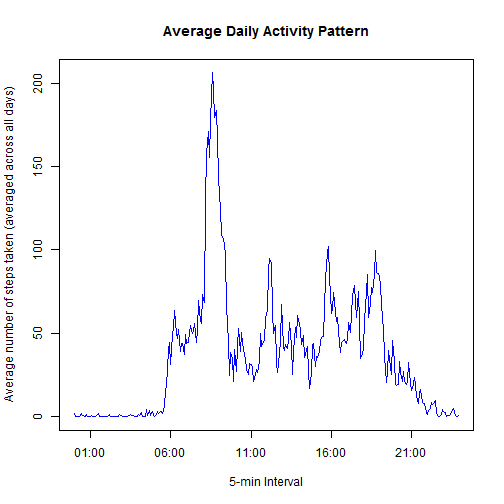
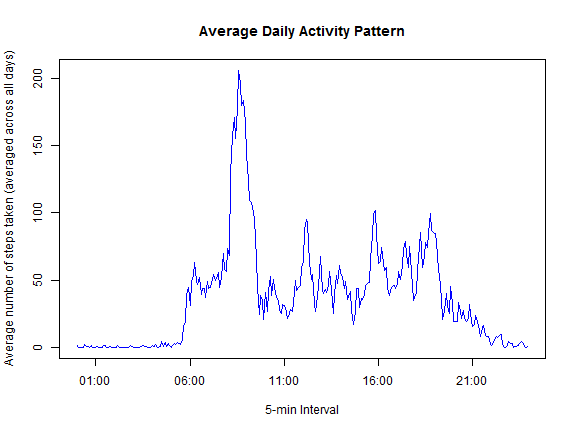
fixed figure width

diff --git a/PA1_template.html b/PA1_template.html
@@ -269,7 +269,7 @@ plot(x = five.min.avg$interval, y = five.min.avg$steps,
       main=&quot;Average Daily Activity Pattern&quot;) 
 </code></pre>
 
[2 lines of base64/hex data omitted]
 
 <h3>Which 5-minute interval, on average across all the days in the dataset, contains the maximum number of steps?</h3>
 
@@ -439,9 +439,9 @@ imputed &lt;- cbind(imputed,
 <p>Observations:</p>
 
 <ol>
-<li><p>From this plot, one can clearly see that there is adifference in activity pattern between weekdays and weekends. The plot indicates that the person  is more active  between 8:15AM and 8:45Am on weekdays as indicated by the big spike.</p></li>
-<li><p>On the Weekends, activity is more sluggish (compared to weekdays) until around 8:00am, but there is more activity during the day on average.  </p></li>
-<li><p>Activity has almost stopped on Weekdays by 20:00 (8pm) , while Weekends show surges of activity until 21:30 (9:30pm).</p></li>
+<li><p>From this plot, one can clearly see that there is adifference in activity pattern between weekdays and weekends. The plot indicates that the person  is more active  between 8:15AM and 8:45AM on weekdays as indicated by the big spike.</p></li>
+<li><p>On the Weekends, activity is more sluggish (compared to weekdays) until around 8:00AM, but there is more activity during the day on average.  </p></li>
+<li><p>Activity has almost stopped on Weekdays by 8:00PM , while Weekends show surges of activity until 9:30PM.</p></li>
 </ol>
 
 </body>

diff --git a/PA1_template.md b/PA1_template.md
@@ -285,9 +285,9 @@ imputed <- cbind(imputed,
 
  Observations:
 
-1. From this plot, one can clearly see that there is adifference in activity pattern between weekdays and weekends. The plot indicates that the person  is more active  between 8:15AM and 8:45Am on weekdays as indicated by the big spike.
+1. From this plot, one can clearly see that there is adifference in activity pattern between weekdays and weekends. The plot indicates that the person  is more active  between 8:15AM and 8:45AM on weekdays as indicated by the big spike.
   
 
-2. On the Weekends, activity is more sluggish (compared to weekdays) until around 8:00am, but there is more activity during the day on average.  
+2. On the Weekends, activity is more sluggish (compared to weekdays) until around 8:00AM, but there is more activity during the day on average.  
 
-3. Activity has almost stopped on Weekdays by 20:00 (8pm) , while Weekends show surges of activity until 21:30 (9:30pm).
+3. Activity has almost stopped on Weekdays by 8:00PM , while Weekends show surges of activity until 9:30PM.
